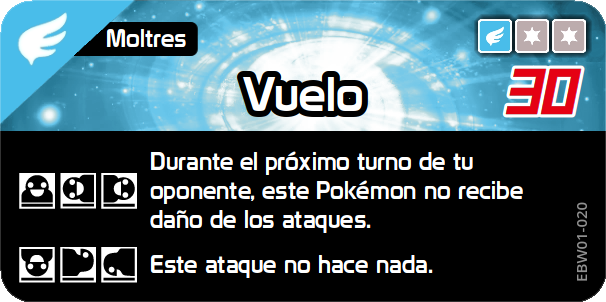
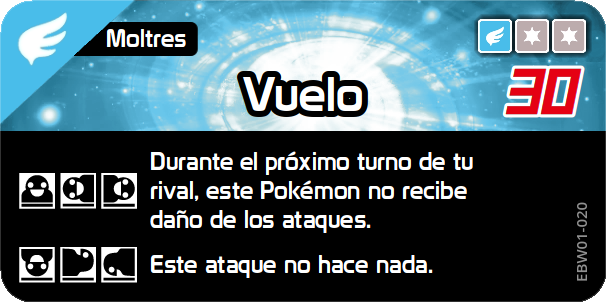
cartas actualizadas

Changed region(s): [[0.2376, 0.596, 0.8614, 0.6854]]

diff --git a/database_es/text/wazacards/ST/10-001_altaria.md b/database_es/text/wazacards/ST/10-001_altaria.md
@@ -80,20 +80,20 @@
 
 #### Vuelo
 
-| Nombre      | Vuelo                                                                                                                |
-| ----------- | -------------------------------------------------------------------------------------------------------------------- |
-| Japonés     | そらをとぶ                                                                                                           |
-| Tipo        | Volador                                                                                                              |
-| Código      | STW10-005                                                                                                            |
-| Pokémon     | Altaria                                                                                                              |
-| Energía     | {Y}{Y}{Y}                                                                                                            |
-| Daño        | 40                                                                                                                   |
-| Efecto      |                                                                                                                      |
-| De pie      | Durante el próximo turno de tu oponente, este Pokémon no recibe daño de los ataques. (Aún te afectan otros efectos.) |
-| De cabeza   | Este ataque no hace nada.                                                                                            |
-| Boca arriba | Este ataque no hace nada.                                                                                            |
-| Boca abajo  | Este ataque no hace nada.                                                                                            |
-| De lado     | Durante el próximo turno de tu oponente, este Pokémon no recibe daño de los ataques. (Aún te afectan otros efectos.) |
+| Nombre      | Vuelo                                                                                                             |
+| ----------- | ----------------------------------------------------------------------------------------------------------------- |
+| Japonés     | そらをとぶ                                                                                                        |
+| Tipo        | Volador                                                                                                           |
+| Código      | STW10-005                                                                                                         |
+| Pokémon     | Altaria                                                                                                           |
+| Energía     | {Y}{Y}{Y}                                                                                                         |
+| Daño        | 40                                                                                                                |
+| Efecto      |                                                                                                                   |
+| De pie      | Durante el próximo turno de tu rival, este Pokémon no recibe daño de los ataques. (Aún te afectan otros efectos.) |
+| De cabeza   | Este ataque no hace nada.                                                                                         |
+| Boca arriba | Este ataque no hace nada.                                                                                         |
+| Boca abajo  | Este ataque no hace nada.                                                                                         |
+| De lado     | Durante el próximo turno de tu rival, este Pokémon no recibe daño de los ataques. (Aún te afectan otros efectos.) |
 
 [Vuelo](https://bandai-hobby.net/site/pokemon/plakoro/images/products/st10/01/img_wazacard05.webp)
 

diff --git a/database_es/text/wazacards/EB01/01-006_grimer.md b/database_es/text/wazacards/EB01/01-006_grimer.md
@@ -99,20 +99,20 @@
 
 #### Corte Venenoso ?
 
-| Nombre      | Corte Venenoso ?                                                                                           |
-| ----------- | ---------------------------------------------------------------------------------------------------------- |
-| Japonés     | ベノムスリップ                                                                                             |
-| Tipo        | Siniestro                                                                                                  |
-| Código      | EBW01-057                                                                                                  |
-| Pokémon     | Grimer                                                                                                     |
-| Energía     | {D}{D}                                                                                                     |
-| Daño        | 20                                                                                                         |
-| Efecto      |                                                                                                            |
-| De pie      | Tu oponente también tira su Charakoro. Si cae en {hs}{do}{s1}{s2}, este ataque hace 20 puntos de daño más. |
-| De cabeza   |                                                                                                            |
-| Boca arriba | Tu oponente también tira su Charakoro. Si cae en {hs}{do}{s1}{s2}, este ataque hace 20 puntos de daño más. |
-| Boca abajo  |                                                                                                            |
-| De lado     | Tu oponente también tira su Charakoro. Si cae en {hs}{do}{s1}{s2}, este ataque hace 20 puntos de daño más. |
+| Nombre      | Corte Venenoso ?                                                                                        |
+| ----------- | ------------------------------------------------------------------------------------------------------- |
+| Japonés     | ベノムスリップ                                                                                          |
+| Tipo        | Siniestro                                                                                               |
+| Código      | EBW01-057                                                                                               |
+| Pokémon     | Grimer                                                                                                  |
+| Energía     | {D}{D}                                                                                                  |
+| Daño        | 20                                                                                                      |
+| Efecto      |                                                                                                         |
+| De pie      | Tu rival también tira su Charakoro. Si cae en {hs}{do}{s1}{s2}, este ataque hace 20 puntos de daño más. |
+| De cabeza   |                                                                                                         |
+| Boca arriba | Tu rival también tira su Charakoro. Si cae en {hs}{do}{s1}{s2}, este ataque hace 20 puntos de daño más. |
+| Boca abajo  |                                                                                                         |
+| De lado     | Tu rival también tira su Charakoro. Si cae en {hs}{do}{s1}{s2}, este ataque hace 20 puntos de daño más. |
 
 [Corte Venenoso](https://bandai-hobby.net/site/pokemon/plakoro/images/products/eb01/01/img_wazacard07.webp)
 

diff --git a/database_es/text/wazacards/ST/07-001_gengar.md b/database_es/text/wazacards/ST/07-001_gengar.md
@@ -99,20 +99,20 @@
 
 #### Truco Fantasmal ?
 
-| Nombre      | Truco Fantasmal ?                                                                                         |
-| ----------- | --------------------------------------------------------------------------------------------------------- |
-| Japonés     | ファントムトリック                                                                                        |
-| Tipo        | Siniestro                                                                                                 |
-| Código      | STW07-006                                                                                                 |
-| Pokémon     | Gengar                                                                                                    |
-| Energía     | {D}{D}{D}{D}                                                                                              |
-| Daño        | 10                                                                                                        |
-| Efecto      |                                                                                                           |
-| De pie      | Tu oponente también tira su Charakoro 3 veces. Por cada {hs}{do}, este ataque hace 40 puntos de daño más. |
-| De cabeza   | Tu oponente también tira su Charakoro 3 veces. Por cada {hs}{do}, este ataque hace 40 puntos de daño más. |
-| Boca arriba | Tu oponente también tira su Charakoro 3 veces. Por cada {hs}{do}, este ataque hace 40 puntos de daño más. |
-| Boca abajo  | Tu oponente también tira su Charakoro 3 veces. Por cada {hs}{do}, este ataque hace 40 puntos de daño más. |
-| De lado     |                                                                                                           |
+| Nombre      | Truco Fantasmal ?                                                                                      |
+| ----------- | ------------------------------------------------------------------------------------------------------ |
+| Japonés     | ファントムトリック                                                                                     |
+| Tipo        | Siniestro                                                                                              |
+| Código      | STW07-006                                                                                              |
+| Pokémon     | Gengar                                                                                                 |
+| Energía     | {D}{D}{D}{D}                                                                                           |
+| Daño        | 10                                                                                                     |
+| Efecto      |                                                                                                        |
+| De pie      | Tu rival también tira su Charakoro 3 veces. Por cada {hs}{do}, este ataque hace 40 puntos de daño más. |
+| De cabeza   | Tu rival también tira su Charakoro 3 veces. Por cada {hs}{do}, este ataque hace 40 puntos de daño más. |
+| Boca arriba | Tu rival también tira su Charakoro 3 veces. Por cada {hs}{do}, este ataque hace 40 puntos de daño más. |
+| Boca abajo  | Tu rival también tira su Charakoro 3 veces. Por cada {hs}{do}, este ataque hace 40 puntos de daño más. |
+| De lado     |                                                                                                        |
 
 [Truco Fantasmal](https://bandai-hobby.net/site/pokemon/plakoro/images/products/st07/01/img_wazacard06.webp)
 

diff --git a/database_es/text/wazacards/EB01/01-005_onix.md b/database_es/text/wazacards/EB01/01-005_onix.md
@@ -80,20 +80,20 @@
 
 #### Giro Bola
 
-| Nombre      | Giro Bola                                                                                          |
-| ----------- | -------------------------------------------------------------------------------------------------- |
-| Japonés     | ジャイロボール                                                                                     |
-| Tipo        | Acero                                                                                              |
-| Código      | EBW01-045                                                                                          |
-| Pokémon     | Onix                                                                                               |
-| Energía     | {M}{C}{C}                                                                                          |
-| Daño        | 20                                                                                                 |
-| Efecto      |                                                                                                    |
-| De pie      | Tu oponente también tira su Charakoro. Si cae en {hs}{do}, este ataque hace 60 puntos de daño más. |
-| De cabeza   |                                                                                                    |
-| Boca arriba | Tu oponente también tira su Charakoro. Si cae en {hs}{do}, este ataque hace 60 puntos de daño más. |
-| Boca abajo  |                                                                                                    |
-| De lado     | Tu oponente también tira su Charakoro. Si cae en {hs}{do}, este ataque hace 60 puntos de daño más. |
+| Nombre      | Giro Bola                                                                                       |
+| ----------- | ----------------------------------------------------------------------------------------------- |
+| Japonés     | ジャイロボール                                                                                  |
+| Tipo        | Acero                                                                                           |
+| Código      | EBW01-045                                                                                       |
+| Pokémon     | Onix                                                                                            |
+| Energía     | {M}{C}{C}                                                                                       |
+| Daño        | 20                                                                                              |
+| Efecto      |                                                                                                 |
+| De pie      | Tu rival también tira su Charakoro. Si cae en {hs}{do}, este ataque hace 60 puntos de daño más. |
+| De cabeza   |                                                                                                 |
+| Boca arriba | Tu rival también tira su Charakoro. Si cae en {hs}{do}, este ataque hace 60 puntos de daño más. |
+| Boca abajo  |                                                                                                 |
+| De lado     | Tu rival también tira su Charakoro. Si cae en {hs}{do}, este ataque hace 60 puntos de daño más. |
 
 [Giro Bola](https://bandai-hobby.net/site/pokemon/plakoro/images/products/eb01/02/img_wazacard05.webp)
 

diff --git a/database_es/text/wazacards/EB01/01-002_moltres.md b/database_es/text/wazacards/EB01/01-002_moltres.md
@@ -175,19 +175,19 @@
 
 #### Vuelo
 
-| Nombre      | Vuelo                                                                                |
-| ----------- | ------------------------------------------------------------------------------------ |
-| Japonés     | そらをとぶ                                                                           |
-| Tipo        | Volador                                                                              |
-| Código      | EBW01-020                                                                            |
-| Pokémon     | Moltres                                                                              |
-| Energía     | {Y}{C}{C}                                                                            |
-| Daño        | 30                                                                                   |
-| Efecto      |                                                                                      |
-| De pie      | Durante el próximo turno de tu oponente, este Pokémon no recibe daño de los ataques. |
-| De cabeza   | Este ataque no hace nada.                                                            |
-| Boca arriba | Este ataque no hace nada.                                                            |
-| Boca abajo  | Este ataque no hace nada.                                                            |
-| De lado     | Durante el próximo turno de tu oponente, este Pokémon no recibe daño de los ataques. |
+| Nombre      | Vuelo                                                                             |
+| ----------- | --------------------------------------------------------------------------------- |
+| Japonés     | そらをとぶ                                                                        |
+| Tipo        | Volador                                                                           |
+| Código      | EBW01-020                                                                         |
+| Pokémon     | Moltres                                                                           |
+| Energía     | {Y}{C}{C}                                                                         |
+| Daño        | 30                                                                                |
+| Efecto      |                                                                                   |
+| De pie      | Durante el próximo turno de tu rival, este Pokémon no recibe daño de los ataques. |
+| De cabeza   | Este ataque no hace nada.                                                         |
+| Boca arriba | Este ataque no hace nada.                                                         |
+| Boca abajo  | Este ataque no hace nada.                                                         |
+| De lado     | Durante el próximo turno de tu rival, este Pokémon no recibe daño de los ataques. |
 
 [Vuelo](https://bandai-hobby.net/site/pokemon/plakoro/images/products/eb01/06/img_wazacard10.webp)

diff --git a/database_es/text/wazacards/EB01/01-003_articuno.md b/database_es/text/wazacards/EB01/01-003_articuno.md
@@ -175,19 +175,19 @@
 
 #### Vuelo
 
-| Nombre      | Vuelo                                                                                |
-| ----------- | ------------------------------------------------------------------------------------ |
-| Japonés     | そらをとぶ                                                                           |
-| Tipo        | Volador                                                                              |
-| Código      | EBW01-030                                                                            |
-| Pokémon     | Articuno                                                                             |
-| Energía     | {Y}{C}{C}                                                                            |
-| Daño        | 30                                                                                   |
-| Efecto      |                                                                                      |
-| De pie      | Durante el próximo turno de tu oponente, este Pokémon no recibe daño de los ataques. |
-| De cabeza   | Este ataque no hace nada.                                                            |
-| Boca arriba | Este ataque no hace nada.                                                            |
-| Boca abajo  | Este ataque no hace nada.                                                            |
-| De lado     | Durante el próximo turno de tu oponente, este Pokémon no recibe daño de los ataques. |
+| Nombre      | Vuelo                                                                             |
+| ----------- | --------------------------------------------------------------------------------- |
+| Japonés     | そらをとぶ                                                                        |
+| Tipo        | Volador                                                                           |
+| Código      | EBW01-030                                                                         |
+| Pokémon     | Articuno                                                                          |
+| Energía     | {Y}{C}{C}                                                                         |
+| Daño        | 30                                                                                |
+| Efecto      |                                                                                   |
+| De pie      | Durante el próximo turno de tu rival, este Pokémon no recibe daño de los ataques. |
+| De cabeza   | Este ataque no hace nada.                                                         |
+| Boca arriba | Este ataque no hace nada.                                                         |
+| Boca abajo  | Este ataque no hace nada.                                                         |
+| De lado     | Durante el próximo turno de tu rival, este Pokémon no recibe daño de los ataques. |
 
 [Vuelo](https://bandai-hobby.net/site/pokemon/plakoro/images/products/eb01/04/img_wazacard10.webp)

diff --git a/database_es/text/wazacards/EB01/01-004_zapdos.md b/database_es/text/wazacards/EB01/01-004_zapdos.md
@@ -175,19 +175,19 @@
 
 #### Vuelo
 
-| Nombre      | Vuelo                                                                                |
-| ----------- | ------------------------------------------------------------------------------------ |
-| Japonés     | そらをとぶ                                                                           |
-| Tipo        | Volador                                                                              |
-| Código      | EBW01-040                                                                            |
-| Pokémon     | Zapdos                                                                               |
-| Energía     | {Y}{C}{C}                                                                            |
-| Daño        | 30                                                                                   |
-| Efecto      |                                                                                      |
-| De pie      | Durante el próximo turno de tu oponente, este Pokémon no recibe daño de los ataques. |
-| De cabeza   | Este ataque no hace nada.                                                            |
-| Boca arriba | Este ataque no hace nada.                                                            |
-| Boca abajo  | Este ataque no hace nada.                                                            |
-| De lado     | Durante el próximo turno de tu oponente, este Pokémon no recibe daño de los ataques. |
+| Nombre      | Vuelo                                                                             |
+| ----------- | --------------------------------------------------------------------------------- |
+| Japonés     | そらをとぶ                                                                        |
+| Tipo        | Volador                                                                           |
+| Código      | EBW01-040                                                                         |
+| Pokémon     | Zapdos                                                                            |
+| Energía     | {Y}{C}{C}                                                                         |
+| Daño        | 30                                                                                |
+| Efecto      |                                                                                   |
+| De pie      | Durante el próximo turno de tu rival, este Pokémon no recibe daño de los ataques. |
+| De cabeza   | Este ataque no hace nada.                                                         |
+| Boca arriba | Este ataque no hace nada.                                                         |
+| Boca abajo  | Este ataque no hace nada.                                                         |
+| De lado     | Durante el próximo turno de tu rival, este Pokémon no recibe daño de los ataques. |
 
 [Vuelo](https://bandai-hobby.net/site/pokemon/plakoro/images/products/eb01/04/img_wazacard10.webp)
